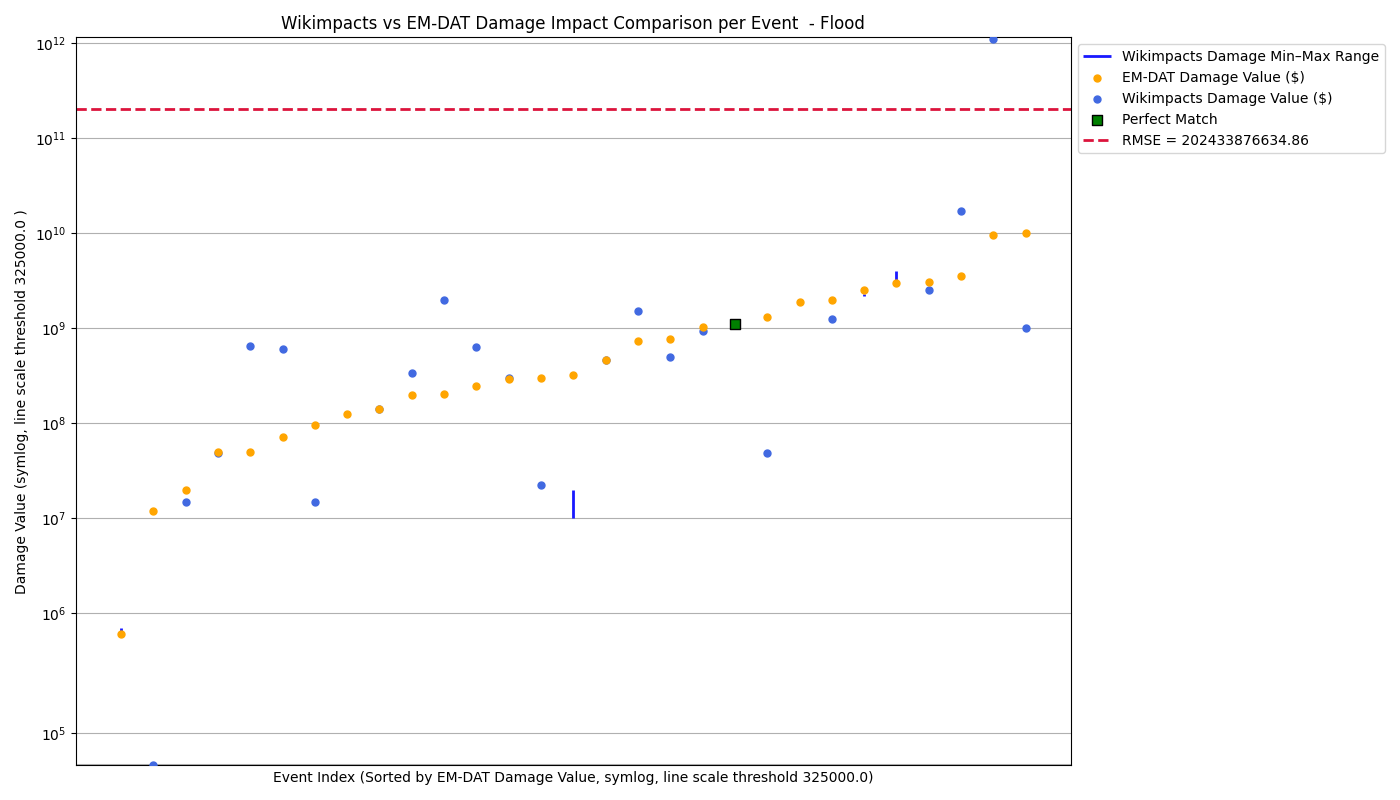
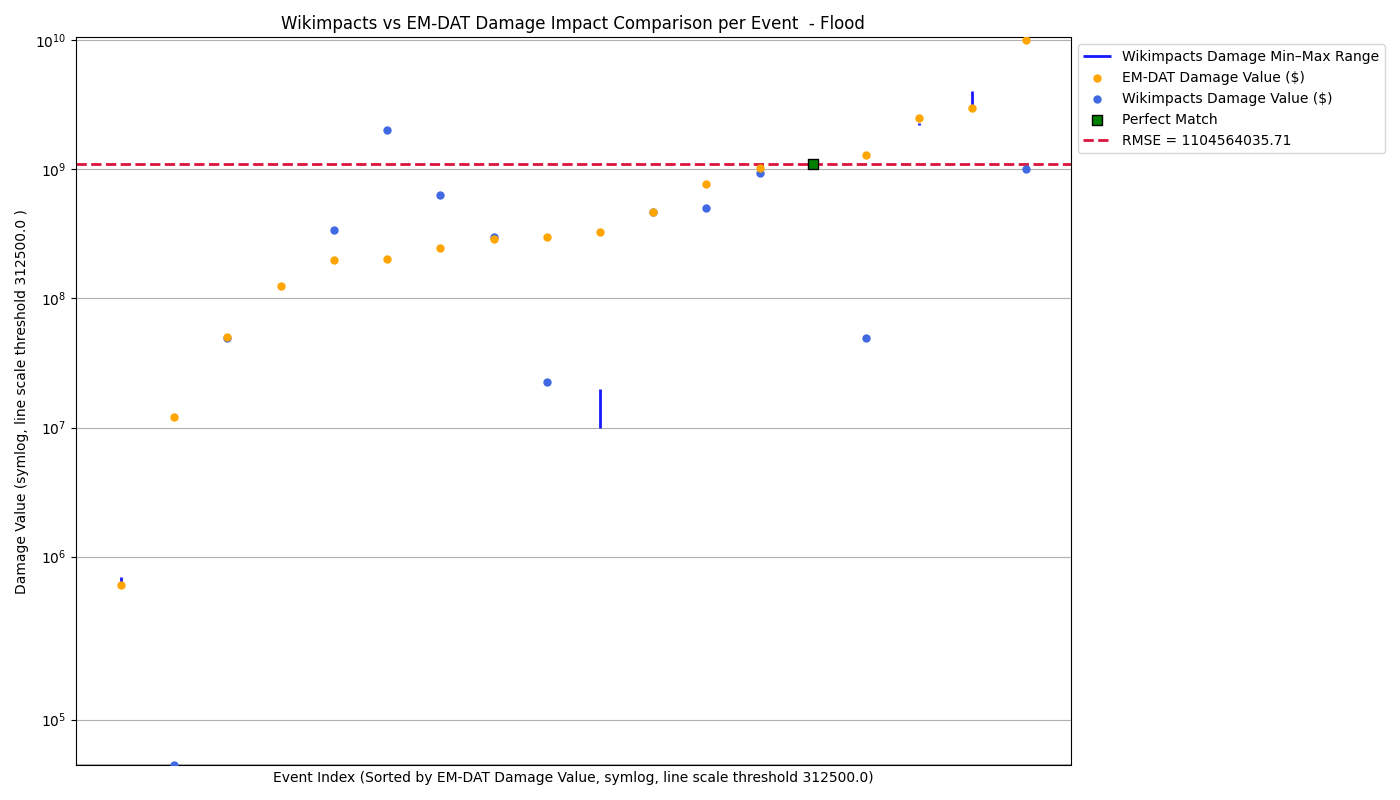
update the figure for damage

diff --git a/Visualizations/wiki_vs_em_dat.py b/Visualizations/wiki_vs_em_dat.py
@@ -342,8 +342,10 @@ if __name__ == "__main__":
             return
         
         #plt.figure(figsize=(14, 8)) # Make it wide to accommodate many events
+        # only filter rows where the Num_Unit is USD 
+        df_USD=dfp[dfp["Num_Unit"]=="USD"]
+        df_sorted = df_USD.sort_values('impact_num').reset_index(drop=True)
 
-        df_sorted = dfp.sort_values('impact_num').reset_index(drop=True)
 
         fig, ax = plt.subplots(figsize=(14, 8))
         range_lbl_shown = False
